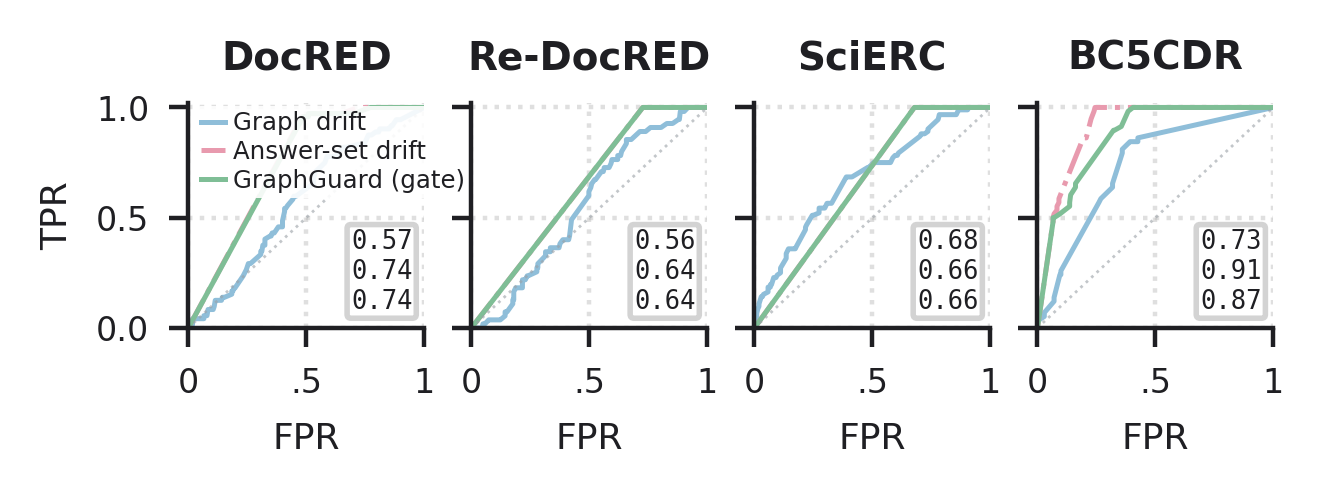
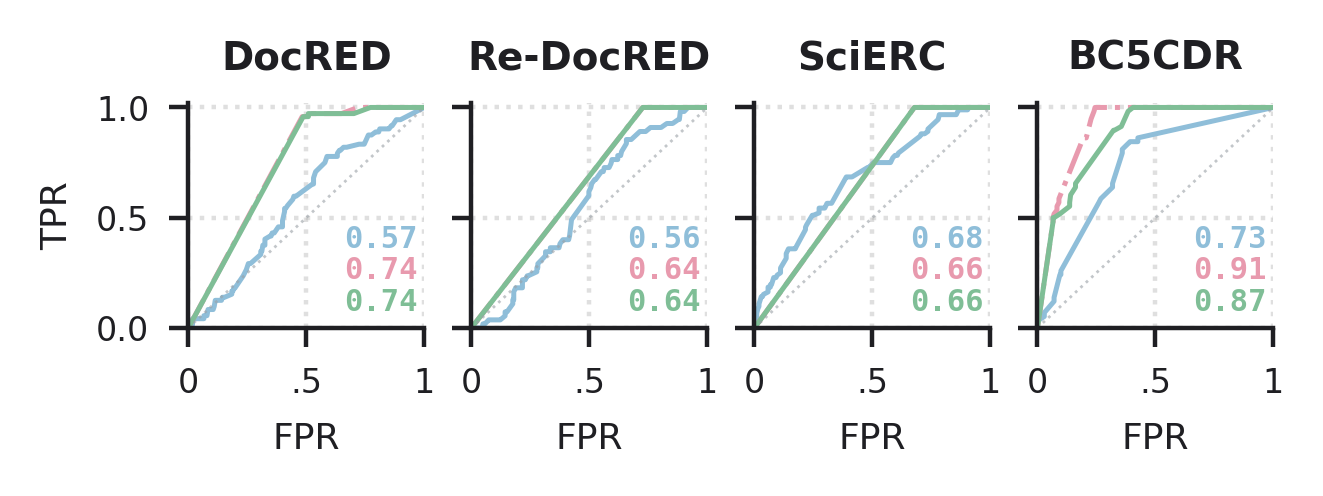
figs: fix legend occlusion + readability across §5-§6 figures
- fig_auroc: color-code the in-panel AUROC numbers to the curves
  (blue=graph, pink=answer-set, green=gate); drop the occluding text legend
- fig_riskcoverage, fig_budget_planner: move legends to a horizontal row
  below the panel row (no in-plot box masking data)
- fig_gate: legend to upper-center, larger inter-panel spacing so the (b)
  title clears the (a) tick labels; shorter y-labels
- fig_extqueries (9a): legend above the bars; (9b) framed off, empty region
- native single-column canvases; value labels on magnitude/gate bars

diff --git a/scripts/make_paper_figures.py b/scripts/make_paper_figures.py
@@ -761,14 +761,14 @@ def make_auroc_figure():
             fpr, tpr, _ = roc_curve(labels, scores)
             auroc = auc(fpr, tpr)
             ax_r.plot(fpr, tpr, color=color, ls=ls, lw=0.9, label=label)
-            roc_text_lines.append(f"{auroc:.2f}")
+            roc_text_lines.append((auroc, color))
             roc_summary[name][label] = {"auroc": round(auroc, 3)}
 
-        ax_r.text(0.95, 0.06, "\n".join(roc_text_lines),
-                  transform=ax_r.transAxes, ha="right", va="bottom",
-                  fontsize=4.6, family="monospace",
-                  bbox=dict(boxstyle="round,pad=0.15", fc="white",
-                            ec="#cccccc", alpha=0.85))
+        for j, (val, col) in enumerate(roc_text_lines):
+            ax_r.text(0.97, 0.05 + (len(roc_text_lines) - 1 - j) * 0.14,
+                      f"{val:.2f}", transform=ax_r.transAxes, ha="right",
+                      va="bottom", fontsize=5.5, fontweight="bold",
+                      family="monospace", color=col)
         ax_r.plot([0, 1], [0, 1], color=_GRAY, ls=":", lw=0.5, alpha=0.6)
         ax_r.set_xlim(0, 1)
         ax_r.set_ylim(0, 1.02)
@@ -784,13 +784,8 @@ def make_auroc_figure():
     axes[0].set_ylabel("TPR", fontsize=6.5)
     for ax in axes:
         ax.set_xlabel("FPR", fontsize=6.5)
-    handles, labels_ = axes[0].get_legend_handles_labels()
-    if handles:
-        axes[0].legend(handles, labels_, loc="upper left",
-                       bbox_to_anchor=(-0.02, 1.04), fontsize=4.4,
-                       frameon=True, framealpha=0.9, edgecolor="none",
-                       borderpad=0.2, handlelength=1.0,
-                       labelspacing=0.2, handletextpad=0.3)
+    # legend omitted: the in-panel AUROC numbers are color-coded to the curves
+    #   (blue = graph drift, pink = answer-set drift, green = GraphGuard gate).
 
     fig.tight_layout()
     out = FIG_DIR / "fig_auroc.png"

diff --git a/scripts/run_budget_planner.py b/scripts/run_budget_planner.py
@@ -146,7 +146,7 @@ def main():
     }, indent=2))
     # Native single-column canvas so fonts render ~1:1 in the PDF.
     gg_style.apply_rc(font_size=7)
-    fig, axes = plt.subplots(1, 4, figsize=(3.5, 0.60), sharey=True,
+    fig, axes = plt.subplots(1, 4, figsize=(3.5, 0.62), sharey=True,
                              gridspec_kw={"wspace": 0.20})
     line_handles = None
     line_labels = None
@@ -177,15 +177,13 @@ def main():
         for s in ("top", "right"):
             ax.spines[s].set_visible(False)
     axes[0].set_ylabel("Harm recall", fontsize=6.5)
-    short = {"Random": "Rand.", "Family-bal.": "Fam-bal.",
-             "Greedy": "Greedy", "Oracle (UB)": "Oracle"}
-    axes[0].legend(line_handles, [short.get(l, l) for l in line_labels],
-                   loc="lower right", fontsize=4.4, frameon=True,
-                   framealpha=0.9, edgecolor="none", borderpad=0.2,
-                   handlelength=0.9, borderaxespad=0.1, labelspacing=0.2,
-                   handletextpad=0.3)
     fig.tight_layout(w_pad=0.4)
-    fig.savefig(OUT_FIG, dpi=400, bbox_inches="tight")
+    leg = fig.legend(line_handles, line_labels, loc="upper center", ncol=4,
+                     bbox_to_anchor=(0.5, -0.46), bbox_transform=fig.transFigure,
+                     fontsize=6, frameon=False, handlelength=1.5,
+                     columnspacing=1.5, handletextpad=0.4)
+    fig.savefig(OUT_FIG, dpi=400, bbox_inches="tight",
+                bbox_extra_artists=[leg])
     print("wrote", OUT_FIG)
     # Print summary headline numbers.
     for ds_name, _ in DATASETS:

diff --git a/scripts/make_extqueries_figure.py b/scripts/make_extqueries_figure.py
@@ -67,9 +67,9 @@ def main() -> int:
     ax1.axhline(1.0, color=_S.GRAY, linestyle="--", linewidth=0.8)
     ax1.set_xticks(x); ax1.set_xticklabels(labels)
     ax1.set_ylabel(r"$\overline{\mathrm{Amp}}(Q)$")
-    ax1.set_ylim(0, 1.55)
-    ax1.legend(fontsize=7, ncol=3, frameon=False, loc="upper left",
-               handlelength=1.0, columnspacing=0.9)
+    ax1.set_ylim(0, 1.92)
+    ax1.legend(fontsize=6.5, ncol=3, frameon=False, loc="upper center",
+               bbox_to_anchor=(0.5, 1.03), handlelength=1.0, columnspacing=1.0)
     ax1.set_title("(a) Extended-template amplification", fontsize=9, fontweight="bold")
     _S.despine(ax1)
 
@@ -96,7 +96,7 @@ def main() -> int:
     ax2.set_ylabel("detector F1")
     ax2.set_ylim(0.46, 1.02)
     ax2.legend(fontsize=6.5, ncol=2, frameon=False, loc="lower right",
-               handletextpad=0.3, columnspacing=0.8)
+               bbox_to_anchor=(1.0, 0.0), handletextpad=0.3, columnspacing=0.8)
     ax2.set_title("(b) Workload-visible harm: graph-only vs. query-aware", fontsize=9, fontweight="bold")
     _S.despine(ax2)
 

diff --git a/scripts/make_gate_figure.py b/scripts/make_gate_figure.py
@@ -68,11 +68,11 @@ def panel(ax, data, ylabel, ylim, annotate=True):
 
 def main() -> int:
     _S.apply_rc(font_size=9)
-    fig, (ax1, ax2) = plt.subplots(2, 1, figsize=(3.6, 1.98),
-                                   gridspec_kw={"hspace": 0.62})
-    panel(ax1, HARM, "pub. harm rate", (0, 0.58))
-    ax1.legend(fontsize=7, ncol=3, frameon=False, loc="upper left",
-               handlelength=1.0, columnspacing=0.8)
+    fig, (ax1, ax2) = plt.subplots(2, 1, figsize=(3.6, 2.05),
+                                   gridspec_kw={"hspace": 0.85})
+    panel(ax1, HARM, "pub. harm rate", (0, 0.72))
+    ax1.legend(fontsize=6.5, ncol=3, frameon=False, loc="upper center",
+               bbox_to_anchor=(0.5, 1.02), handlelength=1.0, columnspacing=1.0)
     ax1.set_title("(a) Harm among published graphs", fontsize=8, fontweight="bold", pad=4)
     panel(ax2, UTIL, "utility", (0.75, 1.09))
     ax2.axhline(1.0, color=_S.GRAY, linestyle=":", linewidth=0.7)

diff --git a/scripts/make_kuzu_gate_artifacts.py b/scripts/make_kuzu_gate_artifacts.py
@@ -209,11 +209,12 @@ def build_figure():
         for s in ("top", "right"):
             ax.spines[s].set_visible(False)
     axes[0].set_ylabel("Pub. harm rate", fontsize=6.5)
-    axes[0].legend(line_handles, line_labels, loc="upper left",
-                   fontsize=5, frameon=False, handlelength=1.2,
-                   borderaxespad=0.1, labelspacing=0.25, handletextpad=0.4)
     fig.tight_layout()
-    fig.savefig(OUT_FIG, dpi=400, bbox_inches="tight")
+    leg = fig.legend(line_handles, line_labels, loc="upper center", ncol=3,
+                     bbox_to_anchor=(0.5, -0.46), bbox_transform=fig.transFigure,
+                     fontsize=6, frameon=False, handlelength=1.5,
+                     columnspacing=1.5, handletextpad=0.4)
+    fig.savefig(OUT_FIG, dpi=400, bbox_inches="tight", bbox_extra_artists=[leg])
     print("wrote", OUT_FIG)
 
 
